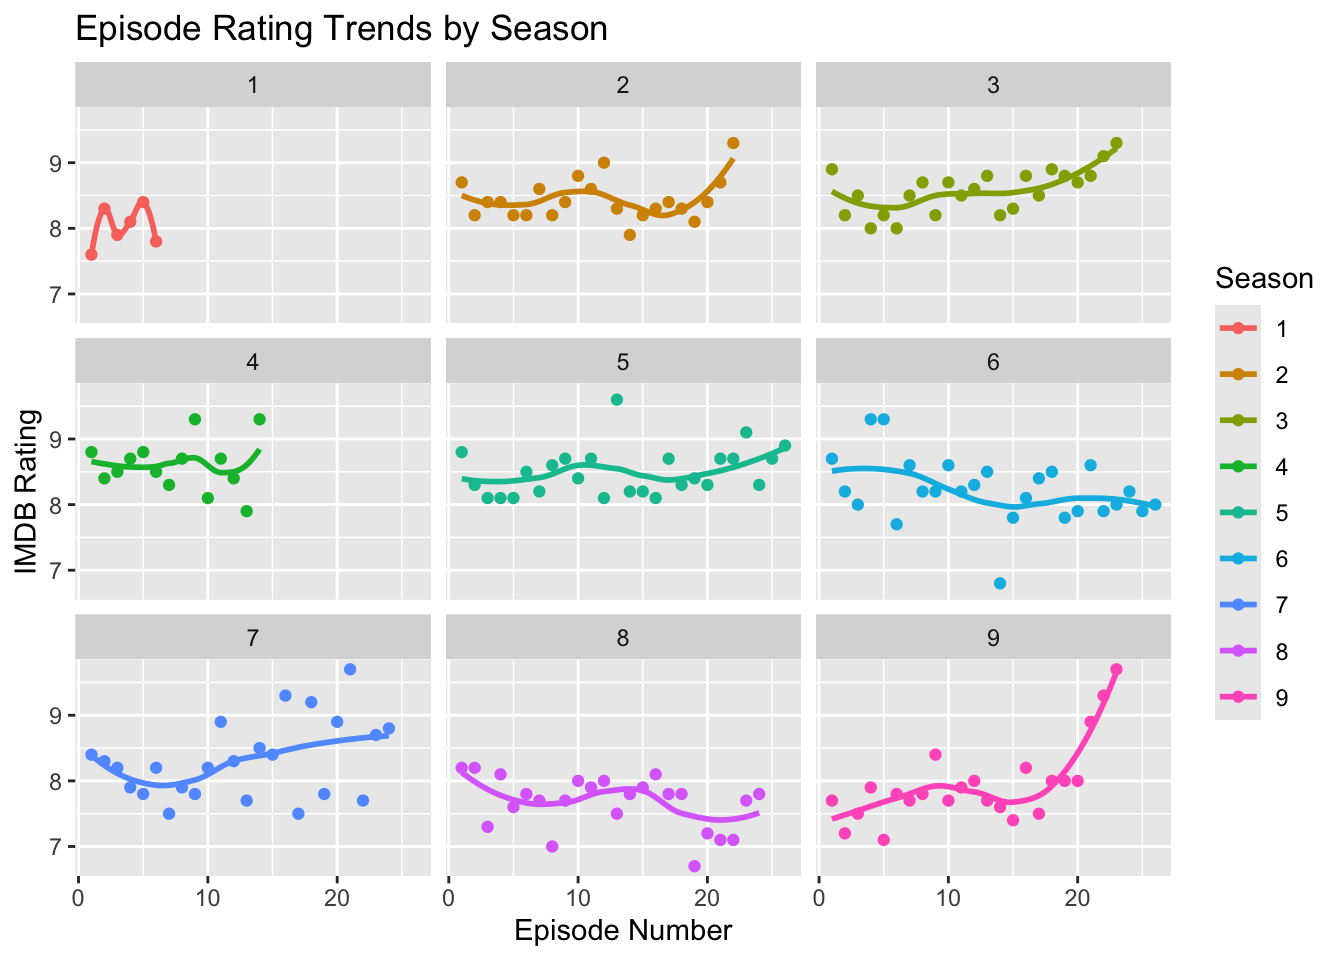
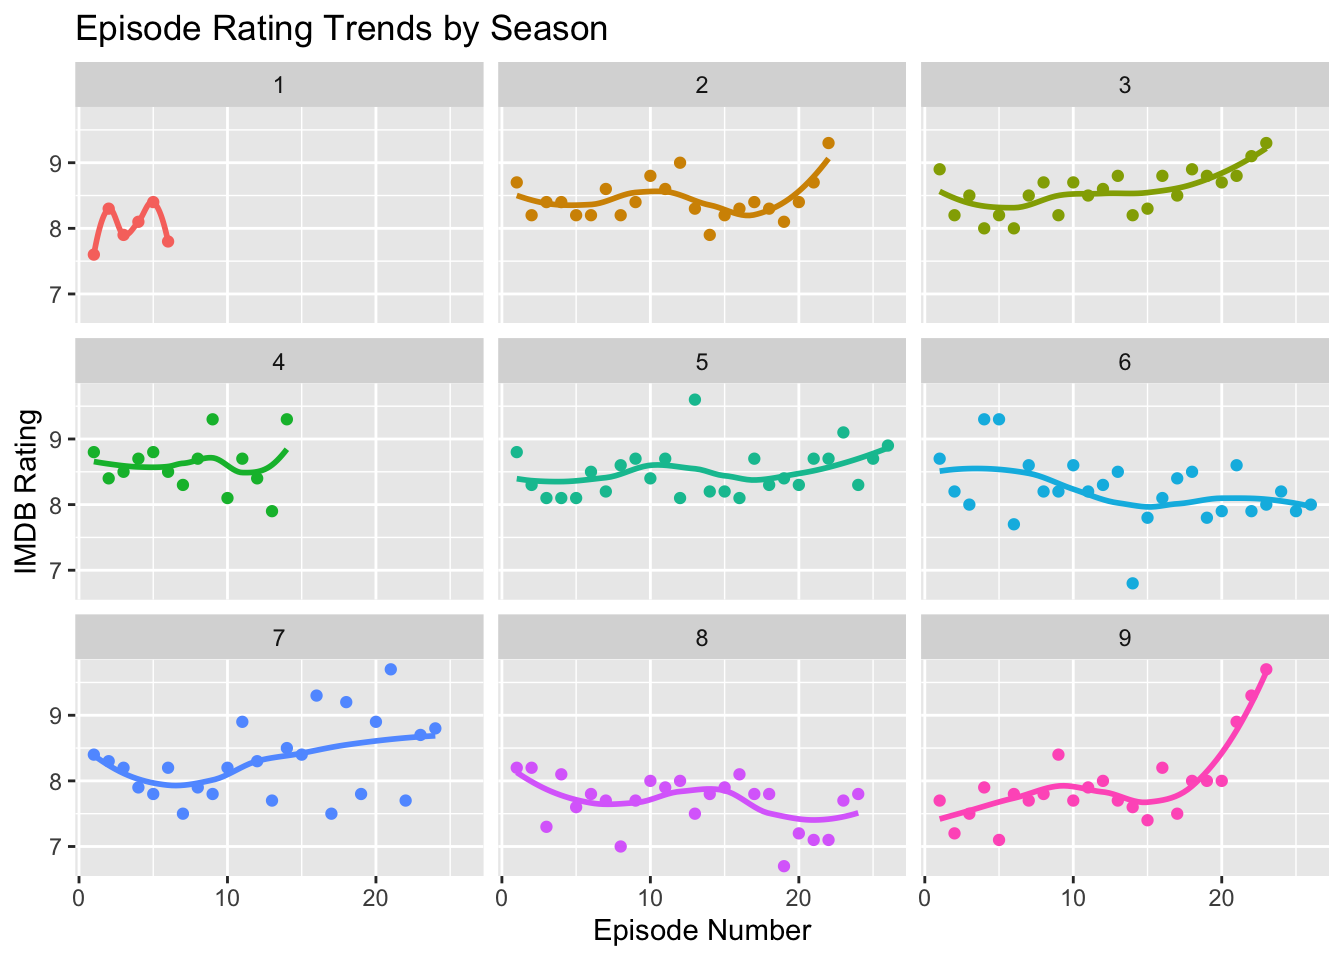
yes

diff --git a/docs/posts/blog-post-3/index.html b/docs/posts/blog-post-3/index.html
@@ -217,7 +217,7 @@ pre > code.sourceCode > span > a:first-child::before { text-decoration: underlin
 <span id="cb2-2"><a href="#cb2-2" aria-hidden="true" tabindex="-1"></a>  <span class="fu">geom_point</span>() <span class="sc">+</span></span>
 <span id="cb2-3"><a href="#cb2-3" aria-hidden="true" tabindex="-1"></a>  <span class="fu">geom_boxplot</span>() <span class="sc">+</span></span>
 <span id="cb2-4"><a href="#cb2-4" aria-hidden="true" tabindex="-1"></a>  <span class="fu">geom_hline</span>(</span>
-<span id="cb2-5"><a href="#cb2-5" aria-hidden="true" tabindex="-1"></a>    <span class="at">yintercept =</span> <span class="fu">mean</span>(office_ratings<span class="sc">$</span>imdb_rating, <span class="at">na.rm =</span> <span class="cn">TRUE</span>),</span>
+<span id="cb2-5"><a href="#cb2-5" aria-hidden="true" tabindex="-1"></a>    <span class="at">yintercept =</span> <span class="fu">mean</span>(office_ratings<span class="sc">$</span>imdb_rating),</span>
 <span id="cb2-6"><a href="#cb2-6" aria-hidden="true" tabindex="-1"></a>    <span class="at">linetype =</span> <span class="st">"dashed"</span>,</span>
 <span id="cb2-7"><a href="#cb2-7" aria-hidden="true" tabindex="-1"></a>    <span class="at">linewidth =</span> .<span class="dv">8</span>,</span>
 <span id="cb2-8"><a href="#cb2-8" aria-hidden="true" tabindex="-1"></a>    <span class="at">color =</span> <span class="st">"darkgrey"</span></span>
@@ -225,10 +225,11 @@ pre > code.sourceCode > span > a:first-child::before { text-decoration: underlin
 <span id="cb2-10"><a href="#cb2-10" aria-hidden="true" tabindex="-1"></a>  <span class="fu">labs</span>(</span>
 <span id="cb2-11"><a href="#cb2-11" aria-hidden="true" tabindex="-1"></a>    <span class="at">x =</span> <span class="st">"Season"</span>,</span>
 <span id="cb2-12"><a href="#cb2-12" aria-hidden="true" tabindex="-1"></a>    <span class="at">y =</span> <span class="st">"IMDB Rating"</span>,</span>
-<span id="cb2-13"><a href="#cb2-13" aria-hidden="true" tabindex="-1"></a>    <span class="at">title =</span> <span class="st">"Distribution of Office Episode Ratings by Season"</span>,</span>
-<span id="cb2-14"><a href="#cb2-14" aria-hidden="true" tabindex="-1"></a>    <span class="at">caption =</span> <span class="st">"The dashed horizontal line represents the overall mean IMDb rating across all episodes."</span></span>
-<span id="cb2-15"><a href="#cb2-15" aria-hidden="true" tabindex="-1"></a>  )<span class="sc">+</span></span>
-<span id="cb2-16"><a href="#cb2-16" aria-hidden="true" tabindex="-1"></a>  <span class="fu">theme_minimal</span>()</span></code></pre></div><button title="Copy to Clipboard" class="code-copy-button"><i class="bi"></i></button></div>
+<span id="cb2-13"><a href="#cb2-13" aria-hidden="true" tabindex="-1"></a>    <span class="at">color =</span> <span class="st">"Season"</span>,</span>
+<span id="cb2-14"><a href="#cb2-14" aria-hidden="true" tabindex="-1"></a>    <span class="at">title =</span> <span class="st">"Distribution of Office Episode Ratings by Season"</span>,</span>
+<span id="cb2-15"><a href="#cb2-15" aria-hidden="true" tabindex="-1"></a>    <span class="at">caption =</span> <span class="st">"The dashed horizontal line represents the overall mean IMDb rating across all episodes."</span></span>
+<span id="cb2-16"><a href="#cb2-16" aria-hidden="true" tabindex="-1"></a>  )<span class="sc">+</span></span>
+<span id="cb2-17"><a href="#cb2-17" aria-hidden="true" tabindex="-1"></a>  <span class="fu">theme_minimal</span>()</span></code></pre></div><button title="Copy to Clipboard" class="code-copy-button"><i class="bi"></i></button></div>
 <div class="cell-output-display">
 <div>
 <figure class="figure">
@@ -249,7 +250,8 @@ pre > code.sourceCode > span > a:first-child::before { text-decoration: underlin
 <span id="cb3-6"><a href="#cb3-6" aria-hidden="true" tabindex="-1"></a>    <span class="at">x =</span> <span class="st">"Episode Number"</span>,</span>
 <span id="cb3-7"><a href="#cb3-7" aria-hidden="true" tabindex="-1"></a>    <span class="at">y =</span> <span class="st">"IMDB Rating"</span>,</span>
 <span id="cb3-8"><a href="#cb3-8" aria-hidden="true" tabindex="-1"></a>    <span class="at">color =</span> <span class="st">"Season"</span>,</span>
-<span id="cb3-9"><a href="#cb3-9" aria-hidden="true" tabindex="-1"></a>    <span class="at">title =</span> <span class="st">"Episode Rating Trends by Season"</span>)</span></code></pre></div><button title="Copy to Clipboard" class="code-copy-button"><i class="bi"></i></button></div>
+<span id="cb3-9"><a href="#cb3-9" aria-hidden="true" tabindex="-1"></a>    <span class="at">title =</span> <span class="st">"Episode Rating Trends by Season"</span>)<span class="sc">+</span></span>
+<span id="cb3-10"><a href="#cb3-10" aria-hidden="true" tabindex="-1"></a>    <span class="fu">theme</span>(<span class="at">legend.position =</span> <span class="st">"none"</span>)</span></code></pre></div><button title="Copy to Clipboard" class="code-copy-button"><i class="bi"></i></button></div>
 <div class="cell-output-display">
 <div>
 <figure class="figure">

diff --git a/docs/index.html b/docs/index.html
@@ -204,7 +204,7 @@ window.Quarto = {
 
 <div class="quarto-listing quarto-listing-container-default" id="listing-listing">
 <div class="list quarto-listing-default">
-<div class="quarto-post image-right" data-index="0" data-categories="YW5hbHlzaXM=" data-listing-date-sort="1773201600000" data-listing-file-modified-sort="1773243093825" data-listing-date-modified-sort="NaN" data-listing-reading-time-sort="5" data-listing-word-count-sort="805">
+<div class="quarto-post image-right" data-index="0" data-categories="YW5hbHlzaXM=" data-listing-date-sort="1773201600000" data-listing-file-modified-sort="1773243800015" data-listing-date-modified-sort="NaN" data-listing-reading-time-sort="5" data-listing-word-count-sort="814">
 <div class="thumbnail"><a href="./posts/blog-post-3/index.html" class="no-external">
 
 <p class="card-img-top"><img src="posts/blog-post-3/index_files/figure-html/unnamed-chunk-2-1.png"  class="thumbnail-image card-img"/></p>
